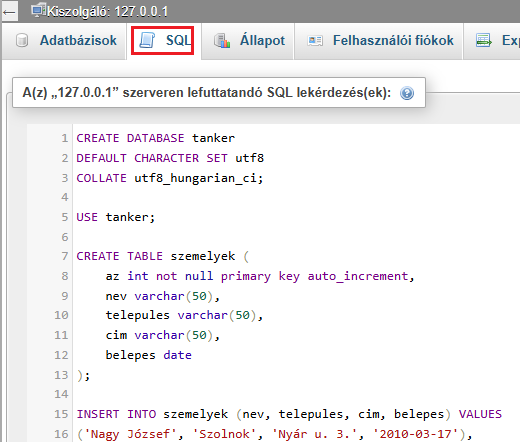
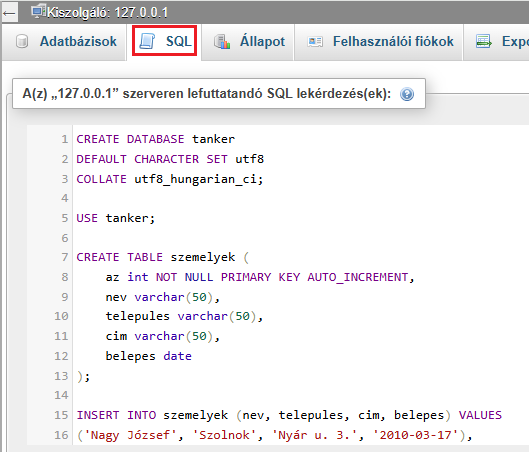
2026.05.18. mENTÉS

Changed region(s): [[0.0923, 0.2941, 0.9538, 1.0], [0.0, 0.0, 1.0, 0.2647]]

diff --git a/SELECT/index.html b/SELECT/index.html
@@ -39,7 +39,7 @@ COLLATE utf8_hungarian_ci;
 USE tanker;
  
 CREATE TABLE szemelyek (
-    az int not null primary key auto_increment,
+    az int NOT NULL PRIMARY KEY AUTO_INCREMENT,
     nev varchar(50),
     telepules varchar(50),
     cim varchar(50),
